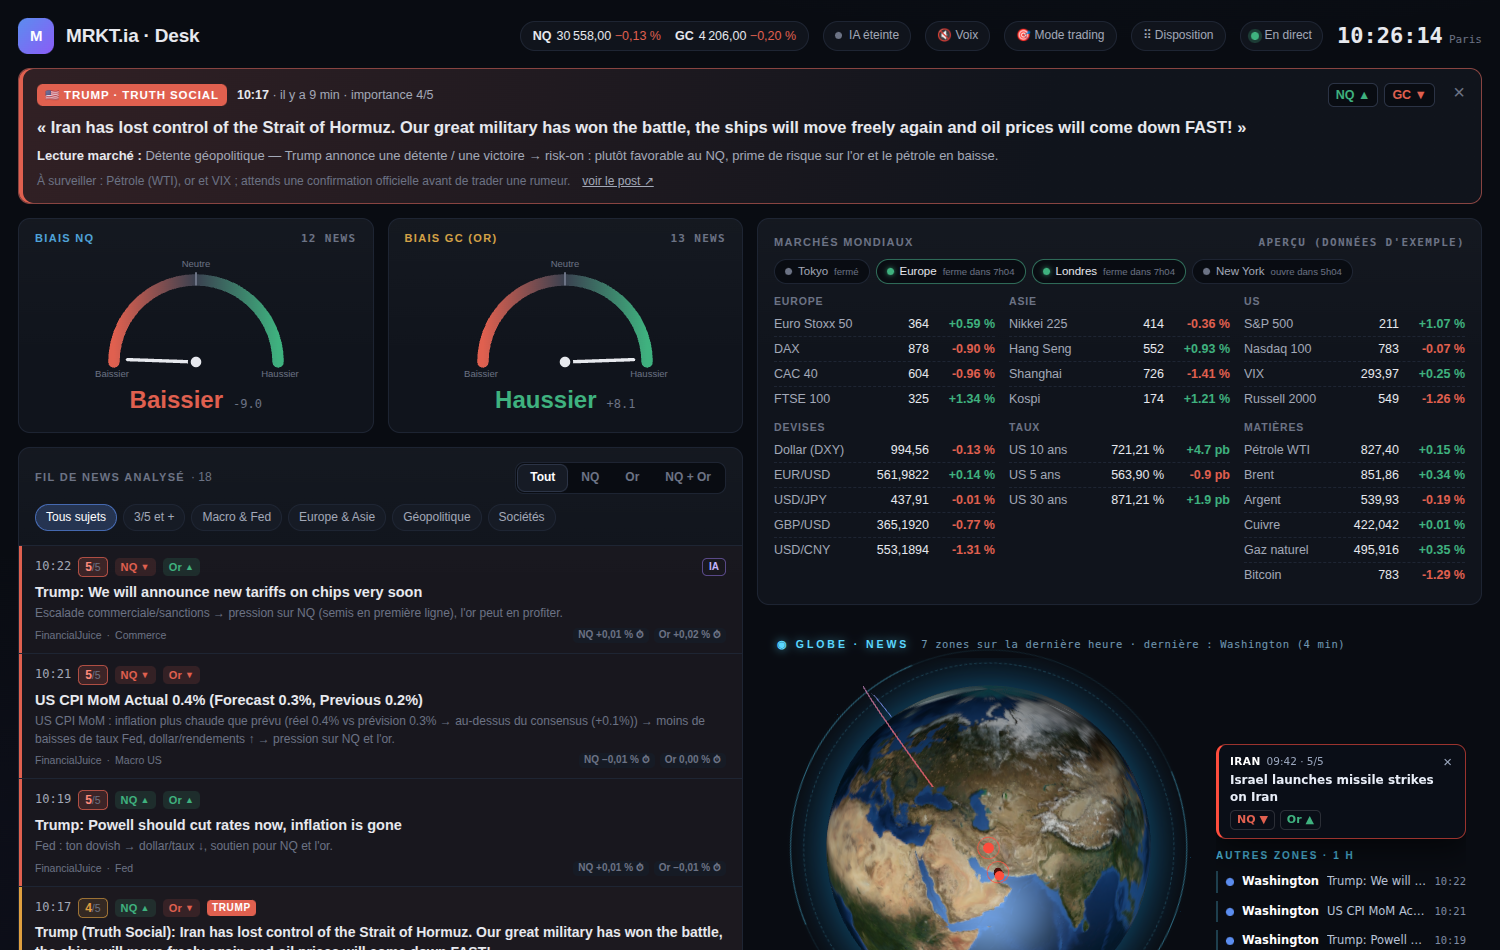
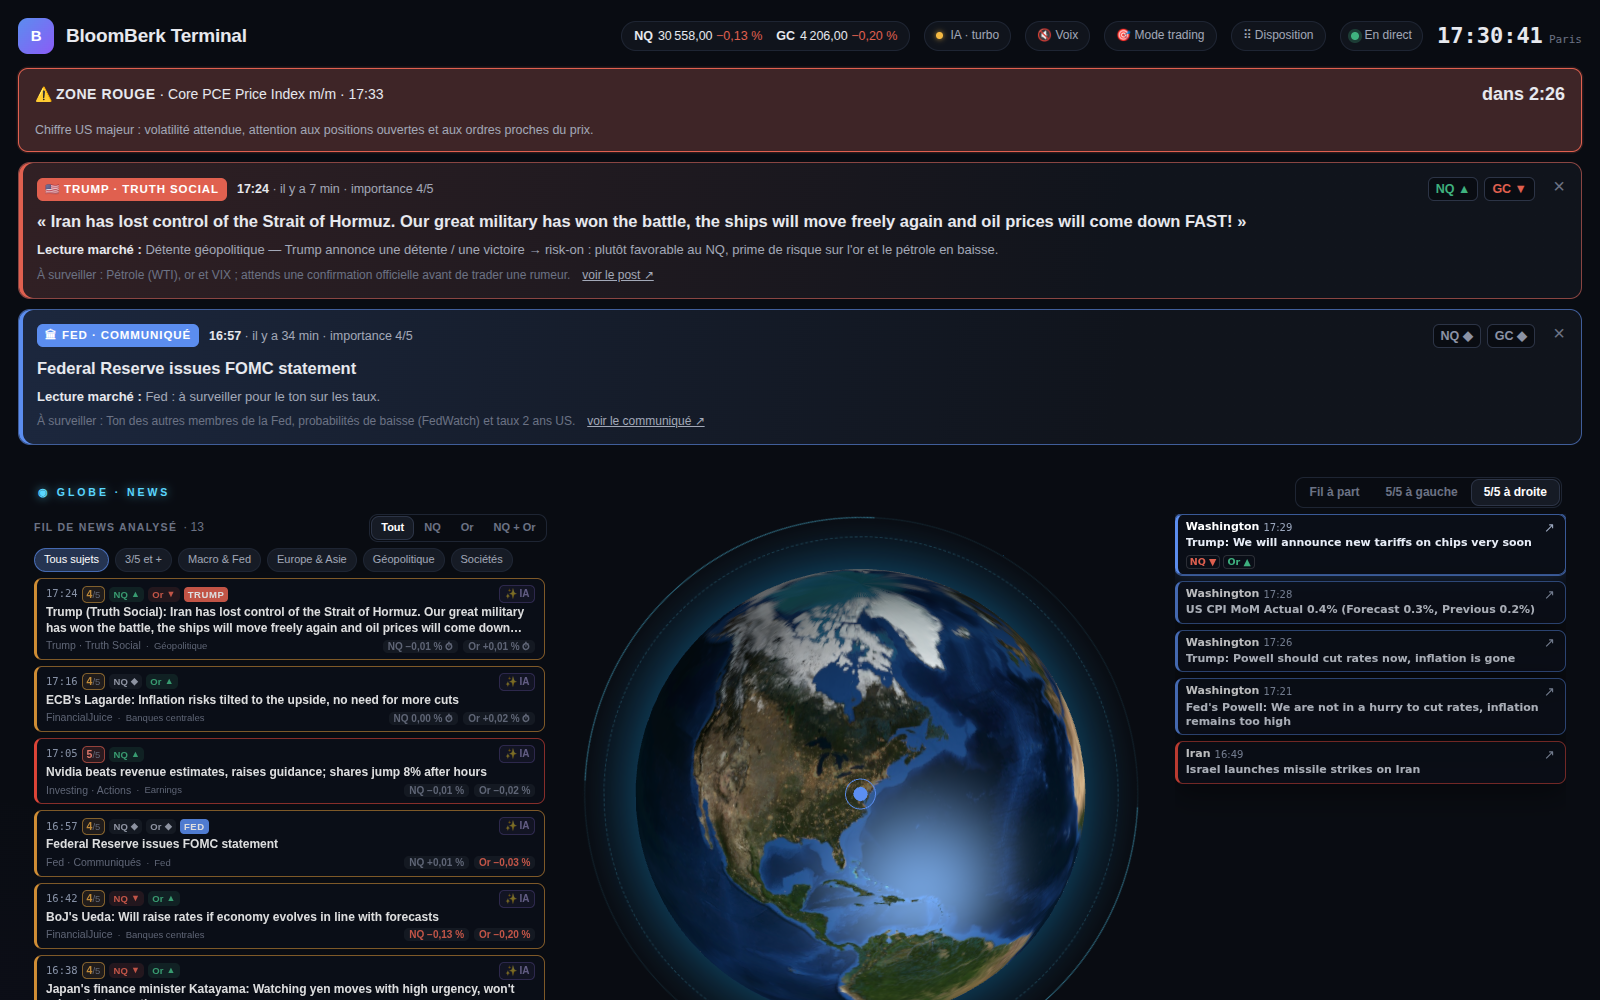
README : globe au centre, fiche des news 5/5, moteur de notation, IA vérifiée, disposition libre + nouvelles captures
Claude-Session: https://claude.ai/code/session_01EiPMspAKR6DxkGDXLeGVq1

diff --git a/README.md b/README.md
@@ -11,7 +11,7 @@ Les news qui comptent, notées et expliquées en temps réel. Le calendrier éco
 ![Gratuit](https://img.shields.io/badge/prix-gratuit-3FB27F)
 ![Sans compte](https://img.shields.io/badge/compte-aucun-6C7385)
 
-<img src="docs/desk.png" alt="Le desk BloomBerk : bandeau Trump, biais NQ / or, fil de news analysé, marchés mondiaux et globe des news" width="100%">
+<img src="docs/desk.png" alt="Le desk BloomBerk : zone rouge avant un chiffre US, bandeaux Trump et Fed, globe des news avec le fil d'un côté et les 5/5 de l'autre" width="100%">
 
 </div>
 
@@ -33,31 +33,52 @@ Pas d'installation compliquée ni de compte à créer : tu dézippes, tu lances,
 
 ## ✨ Ce que fait le desk
 
+### 🌍 Le globe au centre, les news autour
+Le cœur du desk : une Terre en 3D (vrai jour, vraie nuit) qui tourne toute seule vers l'endroit où une grosse news vient de tomber (Iran, Ormuz, Chine, Ukraine…).
+- **D'un côté, les news 5/5** : les vrais market movers, avec le lieu, l'heure et l'effet NQ / or.
+- **De l'autre, tout le fil de news** analysé, que tu fais défiler.
+- Tu choisis où vont les 5/5 : **à gauche** ou **à droite**. Ou bien **« Fil à part »** pour remettre le fil de news dans son propre panneau.
+
+**Fiche de la news** : quand une nouvelle 5/5 tombe, sa fiche complète s'ouvre toute seule à côté de la colonne. Elle reste jusqu'à ce que tu la fermes (✕). Un clic sur n'importe quelle 5/5 l'ouvre aussi. Dans la fiche :
+- la source, les autres sources qui la confirment et le lien de l'article ;
+- l'effet NQ / or, le pourquoi et ce qu'il faut surveiller ;
+- la réaction du marché dans les minutes qui suivent ;
+- l'analyse IA, ou le bouton pour la lancer.
+
+<img src="docs/hub-fiche.png" alt="Le globe au centre, le fil de news à gauche, les news 5/5 à droite et la fiche complète d'une nouvelle 5/5" width="100%">
+
 ### 📰 Le fil de news, déjà analysé
-Chaque news (FinancialJuice, Investing, Truth Social, Fed, BCE, BoJ, BoE…) arrive avec :
-- **son heure** et **sa note de 1 à 5** : du bruit au vrai market mover ;
+Chaque news (FinancialJuice, investingLive, Walter Bloomberg, Truth Social, Fed, BCE, BoJ, BoE, CNBC…) arrive avec :
+- **son heure** et **sa note de 1 à 5**, du bruit au vrai market mover ;
 - **l'actif touché** : NQ ▲ / ▼, Or ▲ / ▼ ;
 - **une explication en une ligne** de l'effet sur le marché, et d'où vient l'info.
 
-Tu filtres en un clic : **NQ**, **Or**, **NQ + Or** ou tout. Tu peux aussi filtrer par sujet : Macro & Fed, Europe & Asie, Géopolitique, Sociétés.
+Rien n'est jeté : même les news de bruit (1/5) restent visibles, en plus discret. Tu filtres en un clic : **NQ**, **Or**, **NQ + Or**, **3/5 et +**, ou par sujet (Macro & Fed, Europe & Asie, Géopolitique, Sociétés).
 
-<img src="docs/news.png" alt="Fil de news analysé" width="560">
+### 🧠 Un moteur de notation qui apprend du marché
+Les notes /5 viennent d'un moteur de règles spécialisé macro. Il n'a pas besoin d'IA et réagit instantanément :
+- **La surprise compte, pas le chiffre** : un CPI à +0,1 point au-dessus du consensus est une vraie surprise, un NFP à +20K c'est du bruit. Chaque chiffre est comparé à sa taille de surprise habituelle.
+- **Vérifié par le marché** : 10 min après chaque news importante, le desk regarde si le NQ et l'or ont bougé dans le sens annoncé (✓ confirmé, ⇄ inverse, calme). Les news contredites par le marché pèsent moins dans le biais.
+- **Il apprend** : si un type de news est souvent contredit par le marché ces dernières semaines, il est noté plus prudemment.
+- **Rumeurs et démentis** : « selon des sources » ou un démenti valent moins qu'une annonce officielle. La même info confirmée par 3 sources monte d'un cran.
 
 ### 🚨 Les alertes qui comptent vraiment
 - **Focus Trump / Fed / BCE / BoJ** : un post important de Trump sur Truth Social, un communiqué de la Fed ou une décision de taux s'affiche en grand, avec la lecture marché.
-- **Zone rouge** : compte à rebours avant les gros chiffres US (CPI, NFP, PCE, ISM…) pour ne pas se faire surprendre avec une position ouverte.
+- **Zone rouge** : compte à rebours avant les gros chiffres US (CPI, NFP, PCE, ISM…), pour ne pas te faire surprendre avec une position ouverte.
 - **« Pendant ton absence »** : si ton PC était éteint, un récap des annonces manquées t'attend au retour.
 - **Notifs sur ton téléphone** (appli ntfy) et **lecture à voix haute** en option.
 
 ### 📅 Calendrier éco US, Europe et Asie
-Le **prochain chiffre clé** est en tête avec son compte à rebours. Chaque publication a sa fiche :
+Le **prochain chiffre clé** est en tête avec son compte à rebours. Un clic sur un événement ouvre sa fiche, sans faire bouger ta page :
 - avant le chiffre : le prévu, le précédent et **les scénarios** (au-dessus / en ligne / en dessous → effet NQ et or) ;
 - après le chiffre : le réel, la surprise, la lecture Fed et la **réaction du marché** à 1, 5 et 15 min.
 
-### 🌍 Le globe des news
-Une Terre en 3D avec le vrai jour et la vraie nuit. Elle tourne toute seule vers la zone où une grosse news vient de tomber (Iran, Ormuz, Chine, Ukraine…), et la fiche de la news s'affiche à côté.
+### 📝 La synthèse du marché, avec ou sans IA
+Une note de marché à lire en 30 secondes avant de trader : le thème du moment, le régime macro (inflation, chômage, Fed, 10 ans), le biais NQ et le biais or avec leurs arguments, ce qui arrive et les risques.
+- **Sans IA**, le desk l'écrit lui-même à partir de ses données : chaque phrase vient d'un chiffre ou d'une news du desk. Elle est mise à jour en continu.
+- **Avec une IA**, elle est rédigée par l'IA toutes les heures (voir plus bas).
 
-<img src="docs/globe.png" alt="Globe des news" width="680">
+<img src="docs/synth.png" alt="Synthèse du marché" width="100%">
 
 ### 🌐 Marchés mondiaux & macro
 - **Marchés mondiaux** : indices Europe / Asie / US, devises, taux, pétrole, or, bitcoin, et les sessions Tokyo / Londres / New York en direct.
@@ -75,10 +96,16 @@ Les dates des résultats (Nvidia, Apple, Microsoft, Meta, Tesla…) avec leur po
 ### 🎙 Les directs de Trump et de la Fed
 Colle le lien d'un direct YouTube : le desk l'affiche dans une fenêtre flottante, le transcrit et sort **les phrases clés qui touchent l'économie**, puis fait un récap à la fin.
 
-### 🤖 L'IA (optionnelle) : branche la tienne
-- **Synthèse du marché** toutes les 30 min, avec un biais NQ et or.
-- **Analyse poussée** d'une news en un clic : contexte, scénario NQ, scénario or, ce qu'il faut surveiller.
+### 🤖 L'IA (optionnelle) : un stratégiste macro qui ne s'invente rien
+- **Synthèse du marché** toutes les heures, avec un biais NQ et or.
+- **Analyse poussée** d'une news : le fait, la surprise, la lecture Fed, le canal (taux, dollar, risque, refuge), le scénario NQ, le scénario or, ce qui l'annulerait et ce qu'il faut surveiller.
 - **Directs Trump / Fed** : les phrases clés et le récap de fin.
+
+L'IA travaille comme un stratégiste de salle de marché :
+- **Elle voit tout le desk** : prix, taux, dollar, régime macro, anticipations Fed, chiffres sortis, déclarations et agenda.
+- **Elle suit une méthode macro fixe** : fait → surprise → Fed → canal → scénarios.
+- **La surprise d'un chiffre est calculée par le desk**, jamais laissée à l'IA.
+- **✓ Chiffres vérifiés** : chaque chiffre et chaque heure écrits par l'IA sont comparés aux données du desk. Un chiffre introuvable, c'est une phrase corrigée ou retirée, et le desk te le signale.
 
 Chacun branche **sa propre IA, avec sa propre clé**. Ça se passe dans le menu **Mon IA** (bouton IA en haut du desk → *Changer*) :
 
@@ -99,14 +126,22 @@ Comment ça marche :
 
 🔒 Ta clé reste sur ton PC (dossier AppData) : jamais dans le dossier de l'app, le zip ou GitHub, et elle n'est jamais réaffichée.
 
-Les alertes et les notes /5, elles, ne dépendent jamais de l'IA : elles restent instantanées, même sans clé ou sans solde.
+Les alertes et les notes /5 ne dépendent jamais de l'IA : elles restent instantanées, même sans clé ou sans solde.
+
+### 🧩 Ton desk, ta disposition
+Clique sur **Disposition** en haut du desk :
+- **Déplace** les panneaux, **retire-les** et remets-les quand tu veux.
+- **Hauteur et largeur** de chaque panneau à la souris. Deux panneaux à 50 % se mettent côte à côte.
+- **Globe** : règle sa hauteur, la largeur du fil / du globe / des 5/5, et la taille de la Terre (− / ＋ ou molette).
+- **Hors mode disposition**, rien ne bouge par erreur. Tout est gardé sur ton PC, et « Réinitialiser » remet le desk d'origine.
+
+<img src="docs/layout.png" alt="Mode disposition : poignées pour la taille du globe et la largeur des colonnes" width="100%">
 
 ### 🧰 Et aussi
 - **Récaps du desk** à 8h et 14h.
 - **Mode trading** : une vue épurée avec juste le biais, les grosses news, le globe et le prochain chiffre.
-- **Disposition libre** : tu déplaces, retires et remets les panneaux comme tu veux.
 - **Sur ton téléphone** : le desk s'affiche aussi sur ton tel (voir plus bas).
-- **NinjaTrader 8** : prix en direct et réaction du marché à chaque news.
+- **NinjaTrader 8** : prix en direct, réaction du marché à chaque news et vérification des lectures.
 
 ---
 
